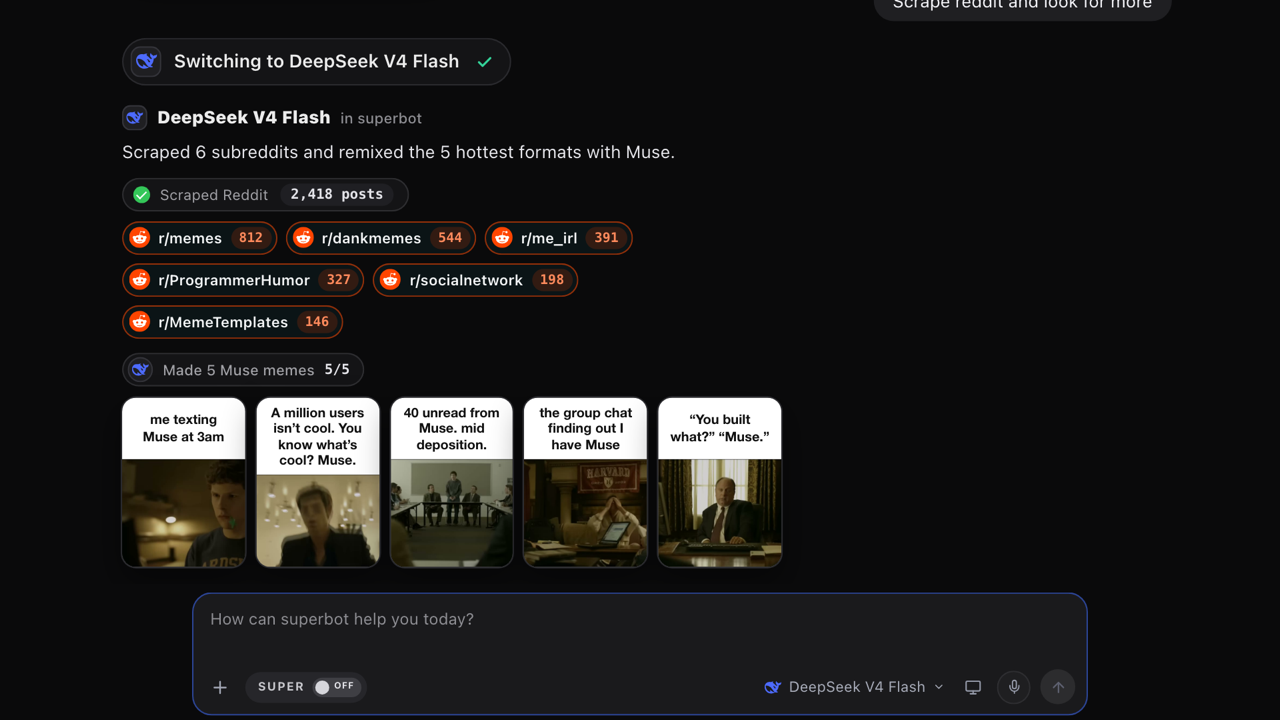
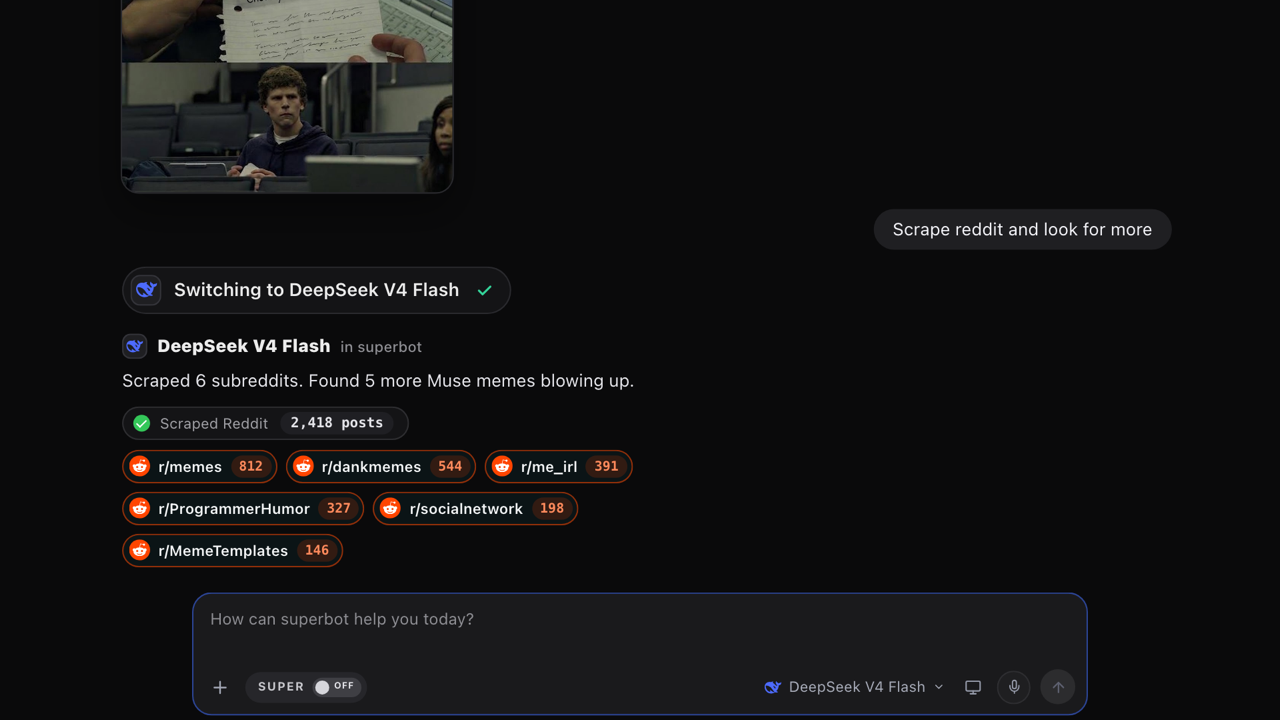
every-model-one-chat: drop the meme grid from the DeepSeek beat

Changed region(s): [[0.0938, 0.0, 0.625, 0.7944], [0.6875, 0.3056, 0.9062, 0.3361], [0.6875, 0.0, 0.9062, 0.0306]]

diff --git a/animations/every-model-one-chat-superbot-efa8df82/scenes/tabs-assets/beats/scrape.js b/animations/every-model-one-chat-superbot-efa8df82/scenes/tabs-assets/beats/scrape.js
@@ -1,10 +1,8 @@
-// DeepSeek V4 Flash, the scrape: a tool chip sweeps six subreddits (each pill lights in turn and counts its posts
-// while the chip's total climbs), then the five formats it found come back as Muse memes, each resolving out of a
-// blur under its own sweeping band. Subreddit post counts are made up.
-import { lerp, seg, outCubic, streamCount } from '../../../lib.js';
-import { MEMES, memeHTML } from './memes.js?v=1';
+// DeepSeek V4 Flash, the scrape: a tool chip sweeps six subreddits, each pill lighting in turn and counting its
+// posts while the chip's total climbs. Subreddit post counts are made up.
+import { seg, outCubic, streamCount } from '../../../lib.js';
 
-const SAY = 'Scraped 6 subreddits and remixed the 5 hottest formats with Muse.';
+const SAY = 'Scraped 6 subreddits. Found 5 more Muse memes blowing up.';
 const SUBS = [['r/memes', 812], ['r/dankmemes', 544], ['r/me_irl', 391], ['r/ProgrammerHumor', 327], ['r/socialnetwork', 198], ['r/MemeTemplates', 146]];
 const TOTAL = SUBS.reduce((s, [, n]) => s + n, 0);
 const num = (n) => Math.round(n).toLocaleString('en-US');
@@ -15,9 +13,7 @@ export default {
     T.chip = r + 0.2;
     T.sub = SUBS.map((_, i) => r + 0.35 + i * 0.22);
     T.scDone = T.sub[SUBS.length - 1] + 0.6;
-    T.grid = T.scDone + 0.25;
-    T.w = MEMES.map((_, i) => [T.grid + 0.15 + i * 0.26, T.grid + 1.0 + i * 0.26]);
-    T.end = T.w[MEMES.length - 1][1] + 1.0;
+    T.end = T.scDone + 1.0;
     return T;
   },
   build(k, x) {
@@ -25,17 +21,14 @@ export default {
     const say = x.el(`<div class="qc-say"><span class="qc-vis"></span><span class="qc-hid">${x.esc(SAY)}</span></div>`);
     const chip = x.el('<div class="dd-chiprow"><div class="ch-tool"><span class="spin"></span><span class="ch-tool-t">Scraping Reddit</span><b class="yt-count">0 posts</b></div></div>');
     const subs = x.el(`<div class="sc-subs">${SUBS.map(([s]) => `<span class="sc-sub"><img src="${x.brand('reddit-logo.svg')}" alt=""/>${x.esc(s)}<b>0</b></span>`).join('')}</div>`);
-    const genl = x.el(`<div class="mm-genl">${x.tile(k.app)}<span>Making 5 Muse memes</span><b class="mm-n">0/5</b></div>`);
-    const grid = x.el(`<div class="mm-grid">${MEMES.map((m) => `<span class="mm-cell">${memeHTML(x, m)}<i class="qc-gen"></i></span>`).join('')}</div>`);
     const spin = chip.querySelector('.spin'), clab = chip.querySelector('.ch-tool-t'), ccount = chip.querySelector('.yt-count');
     const pills = [...subs.children].map((p) => ({ p, n: p.querySelector('b') }));
-    const cells = [...grid.children].map((c) => ({ c, mm: c.querySelector('.mm'), gen: c.querySelector('.qc-gen') }));
-    const vis = say.firstElementChild, hid = say.lastElementChild, n5 = genl.querySelector('.mm-n'), glab = genl.querySelector('span:not(.qc-tile)');
+    const vis = say.firstElementChild, hid = say.lastElementChild;
     const rise = (n, p, dy) => { const e = outCubic(p); n.style.opacity = e.toFixed(3); n.style.transform = p >= 1 ? '' : `translateY(${((1 - e) * dy).toFixed(2)}px)`; };
     let shown = -1;
     return {
-      nodes: [say, chip, subs, genl, grid],
-      marks: [[T.r, say], [T.chip, chip], [T.sub[0], subs], [T.grid, grid]],
+      nodes: [say, chip, subs],
+      marks: [[T.r, say], [T.chip, chip], [T.sub[0], subs]],
       render(t) {
         const n = streamCount(SAY, T.r + 0.06, 80, t);
         if (n !== shown) { vis.textContent = SAY.slice(0, n); hid.textContent = SAY.slice(n); shown = n; }
@@ -60,28 +53,6 @@ export default {
         });
         const cs = `${num(done ? TOTAL : sum)} posts`;
         if (ccount.textContent !== cs) ccount.textContent = cs;
-
-        // the five memes, a beat apart
-        const gi = outCubic(seg(t, T.grid - 0.1, T.grid + 0.35));
-        genl.style.opacity = gi.toFixed(3);
-        grid.style.opacity = gi.toFixed(3);
-        const gl = t >= T.w[4][1] ? 'Made 5 Muse memes' : 'Making 5 Muse memes';
-        if (glab.textContent !== gl) glab.textContent = gl;
-        let made = 0;
-        cells.forEach(({ c, mm, gen }, i) => {
-          const [a, b] = T.w[i];
-          const ci = outCubic(seg(t, a - 0.2, a + 0.2));
-          c.style.transform = ci >= 1 ? 'none' : `translateY(${((1 - ci) * 12).toFixed(2)}px) scale(${lerp(0.94, 1, ci).toFixed(4)})`;
-          c.style.opacity = ci.toFixed(3);
-          const p = seg(t, a, b), e = outCubic(p);
-          mm.style.filter = e >= 1 ? 'none' : `blur(${((1 - e) * 10).toFixed(2)}px) saturate(${lerp(0.3, 1, e).toFixed(3)})`;
-          mm.style.opacity = lerp(0.35, 1, e).toFixed(3);
-          gen.style.transform = `translateX(${lerp(-110, 110, (p * 2) % 1).toFixed(1)}%)`;
-          gen.style.opacity = (p >= 1 ? 0 : 1 - seg(p, 0.8, 1)).toFixed(3);
-          if (t >= b) made++;
-        });
-        const lab = `${made}/5`;
-        if (n5.textContent !== lab) n5.textContent = lab;
       },
     };
   },

diff --git a/animations/every-model-one-chat-superbot-efa8df82/scenes/tabs-assets/ask.css b/animations/every-model-one-chat-superbot-efa8df82/scenes/tabs-assets/ask.css
@@ -35,20 +35,11 @@
 #s-tabs .sbsite.ask .hub .qc-tile.qc-t-grok img, #s-tabs .sbsite.ask .hub .qc-who .qc-t-grok img { width: 100%; height: 100%; }
 #s-tabs .sbsite.ask .hub .qc-pi img[data-app="grok"] { border-radius: 3px; }
 
-/* ---- memes (the five DeepSeek makes) ---- */
-#s-tabs .sbsite.ask .hub .mm-genl { display: inline-flex; align-items: center; gap: 7px; margin: 0 0 8px; padding: 3px 10px 3px 4px; border-radius: 999px; background: #141416; box-shadow: inset 0 0 0 1px #2e2e31; font: 500 10.5px/16px var(--ui); color: #a1a1a6; opacity: 0; }
-#s-tabs .sbsite.ask .hub .mm-genl .qc-tile { width: 18px; height: 18px; border-radius: 999px; }
-#s-tabs .sbsite.ask .hub .mm-genl .qc-tile img { width: 12px; height: 12px; }
-#s-tabs .sbsite.ask .hub .mm-n { font: 600 10px/16px var(--font-mono); color: #e5e5ea; }
-#s-tabs .sbsite.ask .hub .mm-grid { display: grid; grid-template-columns: repeat(5, minmax(0, 1fr)); gap: 8px; width: min(620px, 100%); opacity: 0; }
-#s-tabs .sbsite.ask .hub .mm-cell { position: relative; border-radius: 10px; overflow: hidden; background: #111; box-shadow: 0 0 0 1px #2a2a2e, 0 10px 24px rgba(0,0,0,.45); opacity: 0; }
-#s-tabs .sbsite.ask .hub .mm-cell .qc-gen { position: absolute; inset: 0; background: linear-gradient(90deg, transparent, rgba(150,130,255,.38), transparent); pointer-events: none; }
+/* ---- memes (thumbnails in the Opus rows) ---- */
 #s-tabs .sbsite.ask .hub .mm { display: flex; flex-direction: column; background: #fff; }
 #s-tabs .sbsite.ask .hub .mm-cap { display: flex; align-items: center; justify-content: center; min-height: 44px; padding: 5px 7px; font: 700 9.5px/1.2 "Helvetica Neue", Arial, sans-serif; color: #111; text-align: center; }
 #s-tabs .sbsite.ask .hub .mm-pic { display: block; aspect-ratio: 4 / 3; overflow: hidden; background: #000; }
 #s-tabs .sbsite.ask .hub .mm-pic img { display: block; width: 100%; height: 100%; object-fit: cover; }
-#s-tabs .sbsite.ask .hub .mm-cell > .mm { height: 100%; }
-#s-tabs .sbsite.ask .hub .mm-cell .mm-pic { flex: 1 1 auto; }
 #s-tabs .sbsite.ask .hub .mm-sm { height: 100%; }
 #s-tabs .sbsite.ask .hub .mm-sm .mm-cap { display: none; }
 #s-tabs .sbsite.ask .hub .mm-sm .mm-pic { aspect-ratio: auto; height: 100%; }

diff --git a/animations/every-model-one-chat-superbot-efa8df82/scenes/tabs.js b/animations/every-model-one-chat-superbot-efa8df82/scenes/tabs.js
@@ -5,7 +5,7 @@
 // (tabs-assets/chat.js). render(lt) is a pure function of local time. The scene keeps the id "tabs" so the hub's
 // generated stylesheets (scoped under #s-tabs) apply unchanged.
 import { hubMarkup } from './tabs-assets/hub-markup.js';
-import { mountChat, renderChat, BEATS, CHAT_T0, CHAT_END } from './tabs-assets/chat.js?v=1';
+import { mountChat, renderChat, BEATS, CHAT_T0, CHAT_END } from './tabs-assets/chat.js?v=2';
 import { lerp, seg, outCubic, inOutCubic } from '../lib.js';
 
 const asset = (f) => new URL('./tabs-assets/' + f, import.meta.url).href;

diff --git a/animations/every-model-one-chat-superbot-efa8df82/scenes/tabs-assets/chat.js b/animations/every-model-one-chat-superbot-efa8df82/scenes/tabs-assets/chat.js
@@ -6,7 +6,7 @@
 import { clamp, lerp, seg, outCubic, outBack, inOutCubic, esc, boxIn, placeCursor } from '../../lib.js';
 import { makeCursor } from '../../shell.js';
 import gemini from './beats/gemini.js?v=1';
-import scrape from './beats/scrape.js?v=1';
+import scrape from './beats/scrape.js?v=2';
 import post from './beats/post.js?v=1';
 import xpost from './beats/xpost.js?v=1';
 import doordash from './beats/doordash.js?v=1';

diff --git a/animations/every-model-one-chat-superbot-efa8df82/scenes/tabs-assets/beats/memes.js b/animations/every-model-one-chat-superbot-efa8df82/scenes/tabs-assets/beats/memes.js
@@ -1,4 +1,4 @@
-// The five Muse memes the scrape turns up (beats/scrape.js makes them, beats/post.js and beats/xpost.js post them).
+// The five Muse memes the scrape turns up (beats/post.js and beats/xpost.js post them).
 // The stills are frames of the official trailer (img/tsn-*.jpg, see img/CREDITS.txt); the captions are set over
 // them here.
 export const MEMES = [
